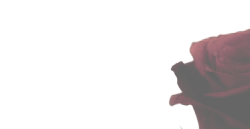
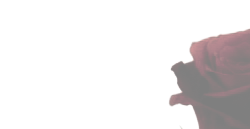
bg

Changed region(s): [[0.672, 0.2481, 1.0, 1.0]]

diff --git a/src/App.css b/src/App.css
@@ -54,7 +54,7 @@
   position: relative;
   width: 100%;
   min-height: 100vh;
-  background: #958886 url('./images/backgrounds/content-bg.png') fixed;
+  background: #fff url('./images/backgrounds/content-bg.png') fixed;
   background-size: cover;
   color: #1d0e0b;
   transition: all 0.5s ease 0.2s;
